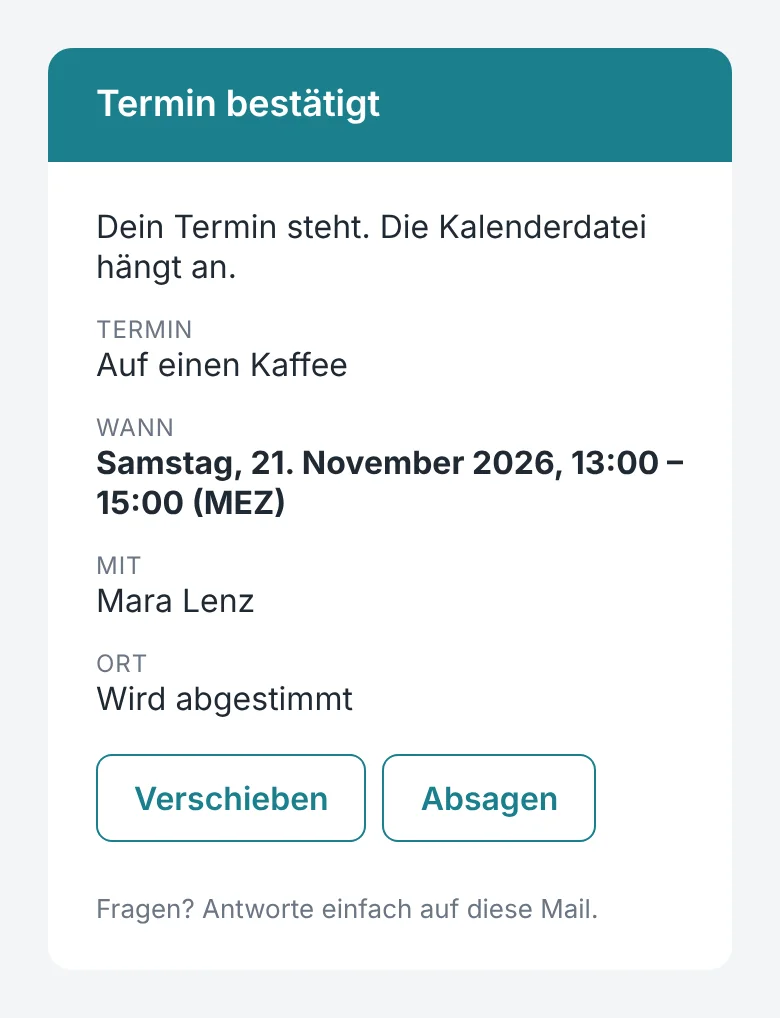
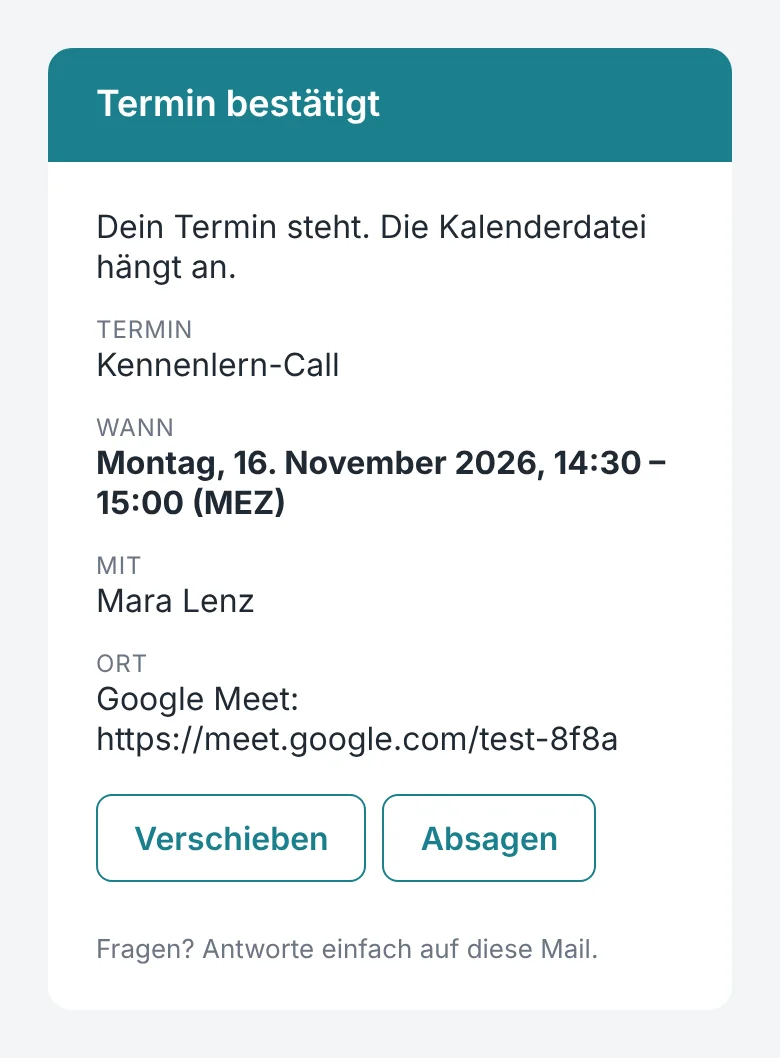
Slot. In.: Bestätigungsmail passend zum Kennenlern-Call
Claude-Session: https://claude.ai/code/session_01HwzKfT14iF8BtcJUzxDn18

diff --git a/slotin/index.html b/slotin/index.html
@@ -303,7 +303,7 @@ footer a{color:var(--flieder)}
           <div class="mail"><img src="img/mail-anfrage.webp" width="780" height="1040" alt="Mail mit Terminanfrage" loading="lazy"></div></div>
 
         <div class="cell l rv"><h3>Bekommt die Bestätigung</h3><p>Mit Kalenderdatei und Links zum Verschieben oder Absagen.</p>
-          <div class="mail"><img src="img/mail-bestaetigt.webp" width="780" height="1018" alt="Bestätigungsmail" loading="lazy"></div></div>
+          <div class="mail"><img src="img/mail-bestaetigt.webp" width="780" height="1058" alt="Bestätigungsmail" loading="lazy"></div></div>
         <div class="axis node" data-n="3"></div>
         <div class="cell r rv d1"><h3>Hast den Termin im Kalender</h3><p>Ein Klick auf „Annehmen“, und er steht dort, wo du ihn haben willst.</p>
           <div class="event"><div class="bar">Kennenlern-Call • Sam Beispiel<small>14:30 – 15:00 · Google Meet</small></div>
